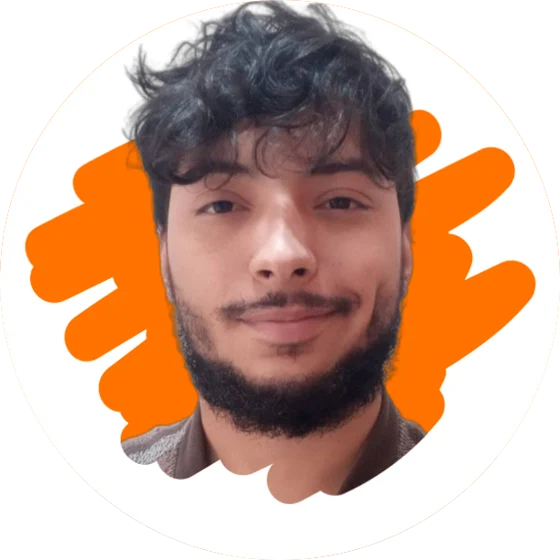
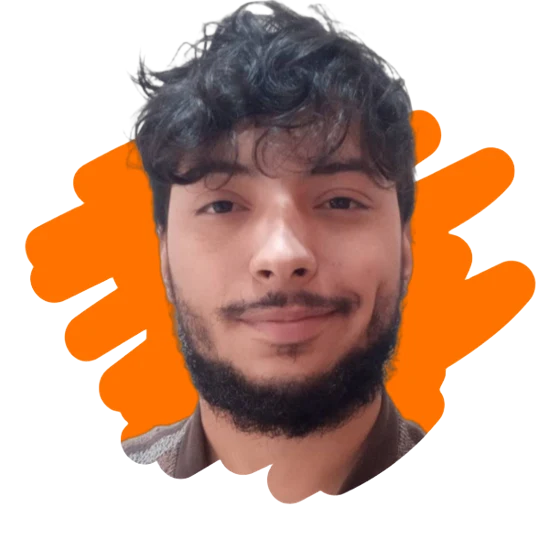
Use a transparent portrait so its backdrop follows the theme
The old image had a white disc baked in, which glared in the dark
theme. The disc is now drawn with the theme's surface colour.

diff --git a/src/components/Sidebar.tsx b/src/components/Sidebar.tsx
@@ -98,7 +98,7 @@ function Portrait({ alt }: { alt: string }) {
       alt={alt}
       width={96}
       height={96}
-      className="size-24 shrink-0 rounded-full bg-white shadow-raised md:size-20 lg:size-[4.5rem]"
+      className="size-24 shrink-0 rounded-full bg-surface shadow-raised md:size-20 lg:size-[4.5rem]"
     />
   );
 }
